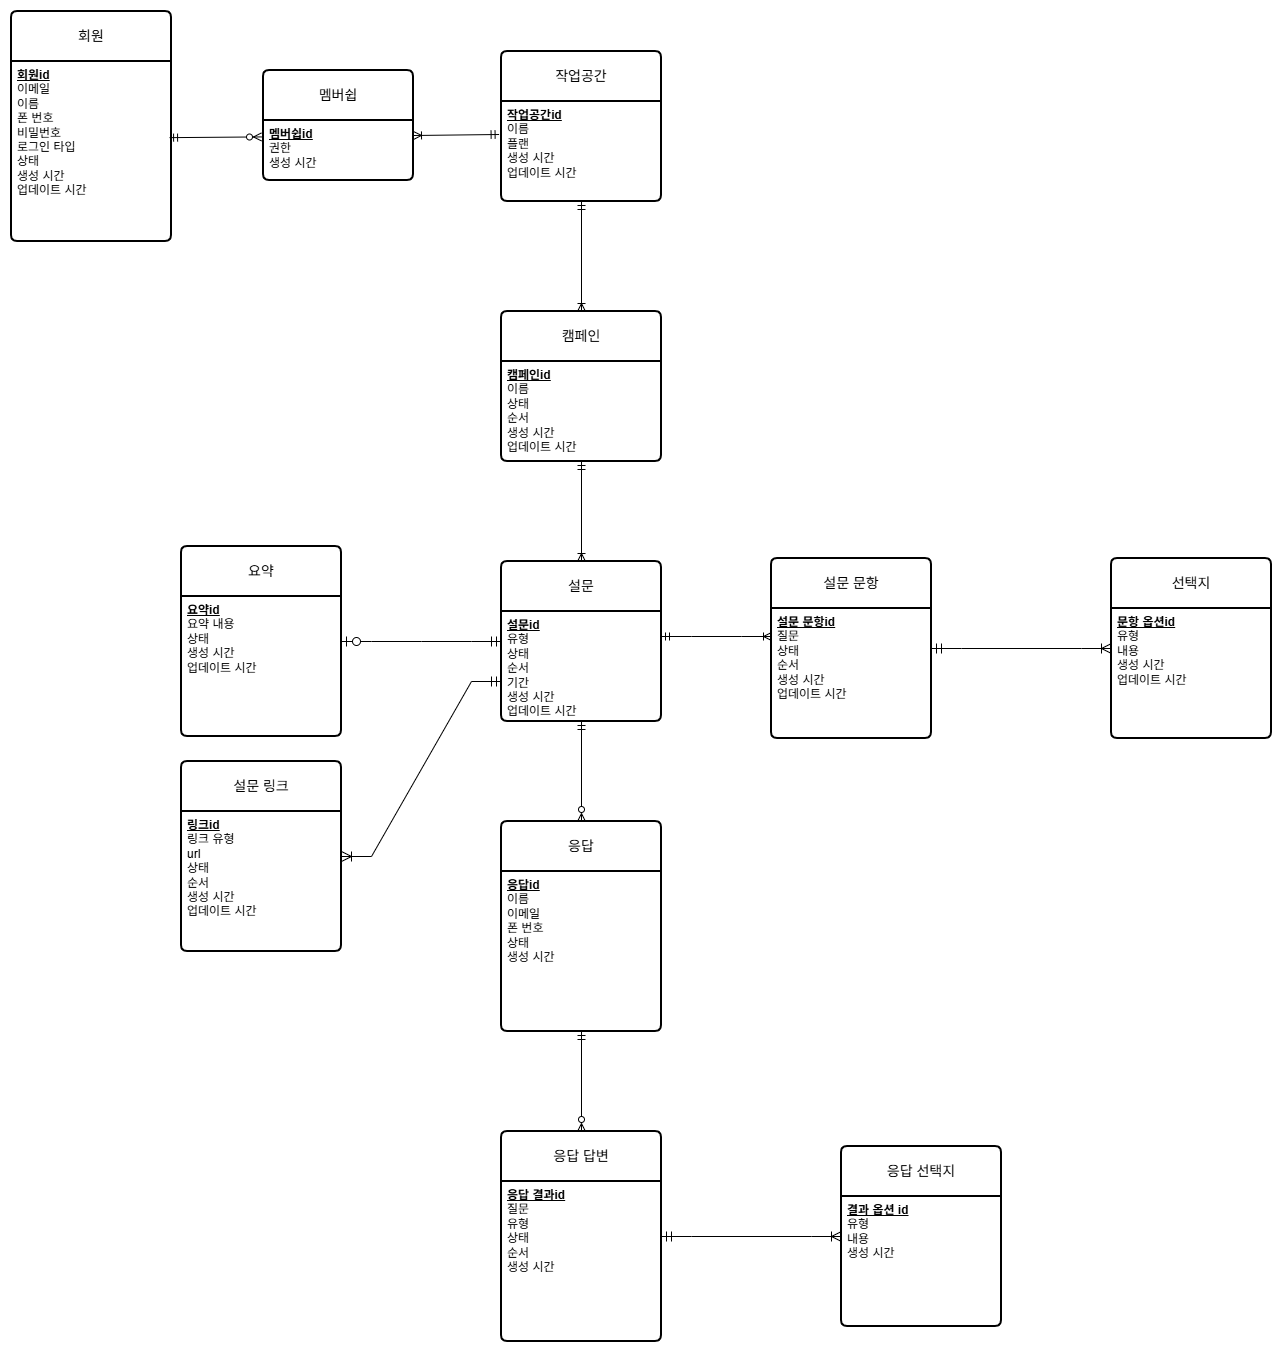
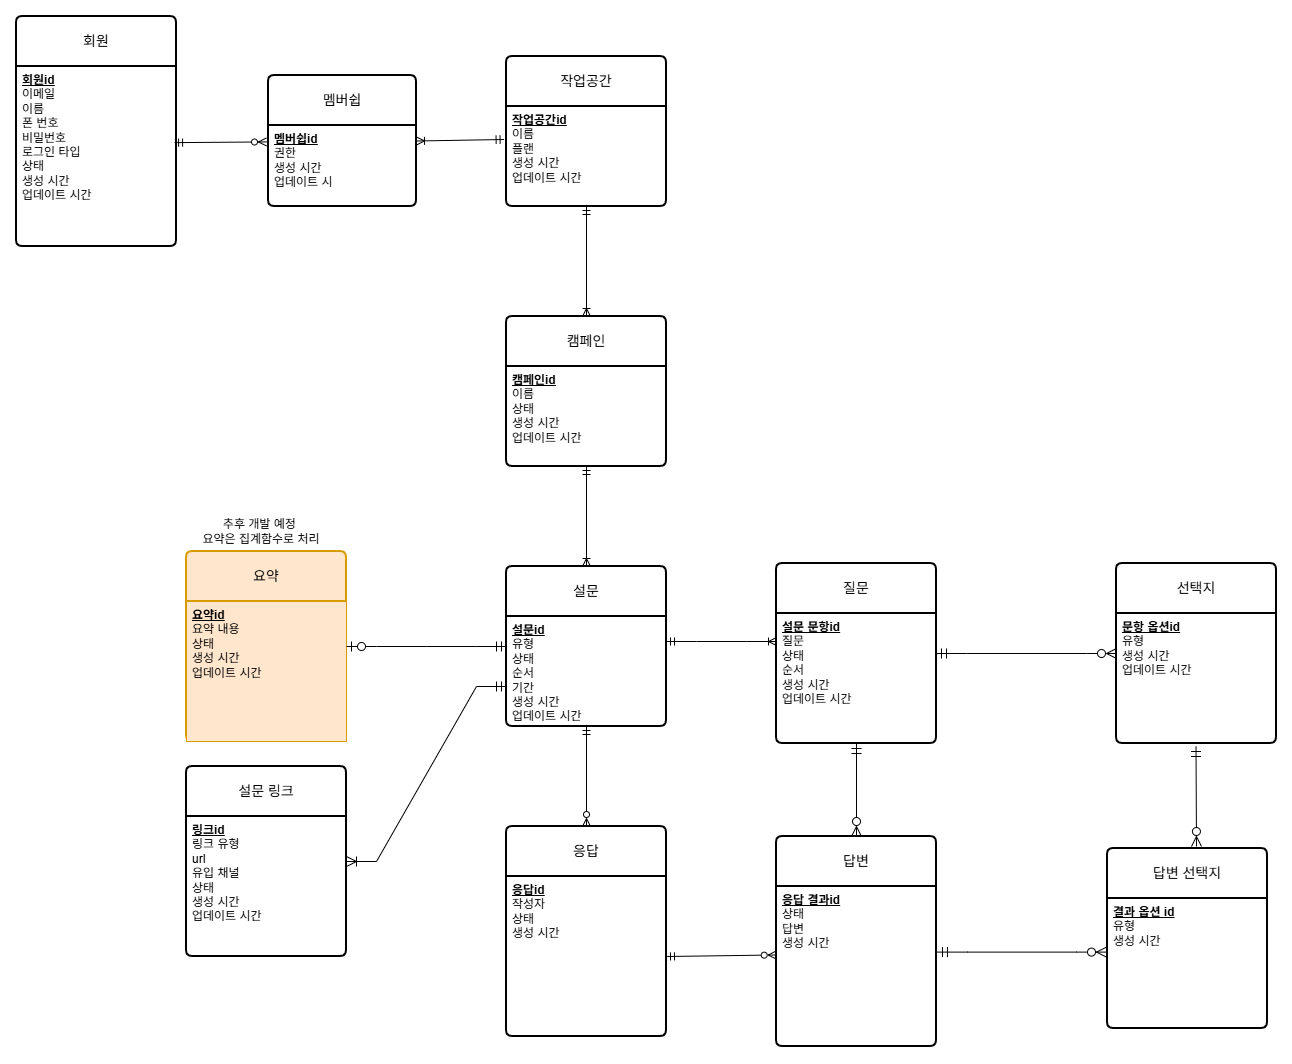
docs: add initial conceptual ERD 4

diff --git a/README.md b/README.md
@@ -5,7 +5,48 @@ QR 코드 및 링크 기반 설문조사 플랫폼
 ## 1. Project Overview
 
 
-## 2. Key Features
+## Key Features
+
+### Workspace & Membership
+- 회원가입 시 개인 작업공간 자동 생성
+- 여러 작업공간 참여 및 관리
+- 작업공간별 역할 기반 권한 관리 (OWNER, ADMIN, MEMBER)
+- Free / Pro 구독 관리
+
+### Campaign & Survey
+- 캠페인별 설문 생성 및 관리
+- 동적 질문 및 선택지 구성
+- 설문 임시저장 및 발행
+- 발행 후 질문 수정 지원
+- 로그인 없는 설문 참여
+
+### QR & Channel Tracking
+- 설문별 QR 코드 및 공유 링크
+- 유입 채널별 링크 관리
+- 채널별 응답 수 추적
+
+### Analytics
+- 설문별 응답 현황
+- 질문별 응답 통계 및 선호도 분석
+- 채널별 응답 비교
+- 대시보드 시각화
+
+## Database Design
+
+### Conceptual ERD
+
+![Conceptual ERD](docs/database/conceptual-erd.png)
+
+### Design Decisions
+- User와 Workspace의 N:M 관계를 Membership으로 분리
+- 작업공간별 권한을 Membership에서 관리
+- 구독 정보를 Subscription으로 분리
+- 캠페인과 설문의 관계 모델링
+
+## Documentation
+
+- [Functional Requirements](docs/requirements/functional-requirements.md)
+- [Database Design Decisions](docs/database/design-decisions.md)
 
 
 ## 3. Tech Stack
